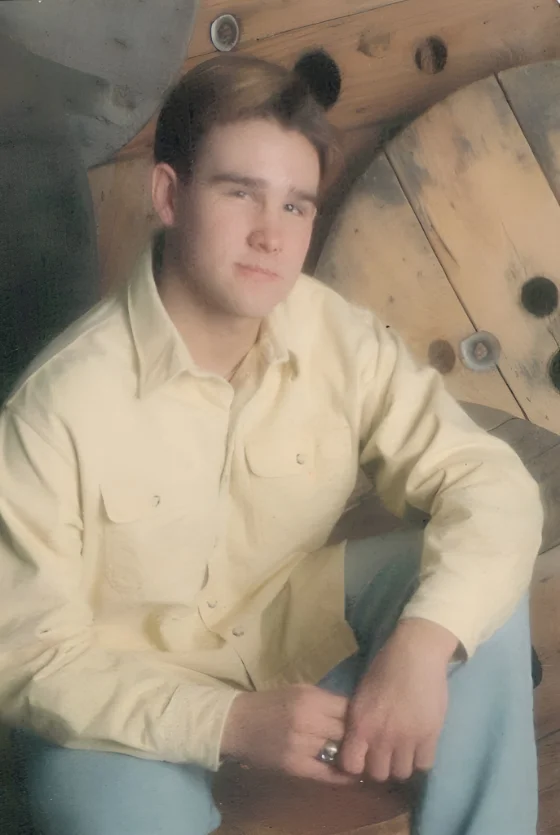
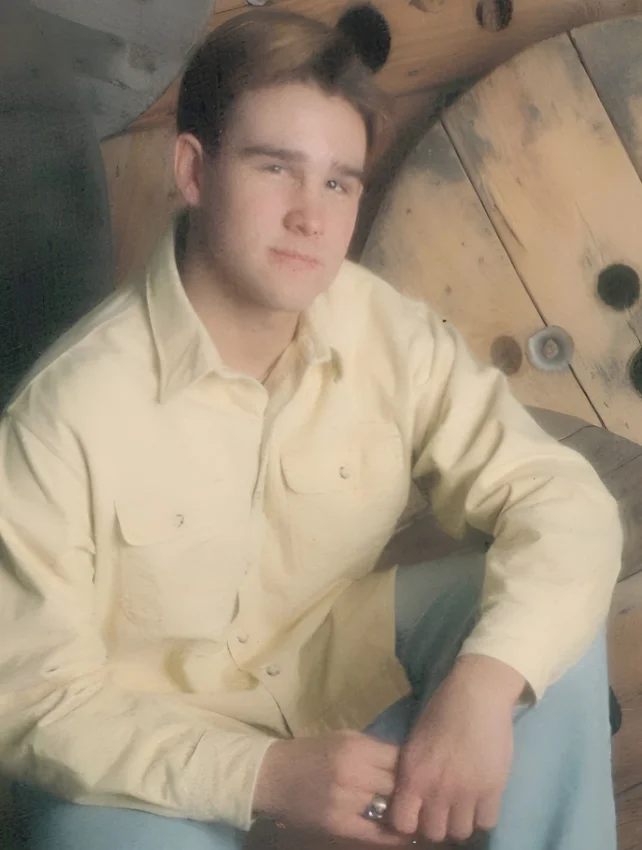
What: Portrait Rebuilt From Its Original. Why: The About portrait was a 560 by 835 copy, short of twice the 321px it now reaches on phones, and the user added its 1,374 by 2,048 original. How: The portrait box becomes twice the phone frame, 642 by 850, cut to that shape at its center the way the fra

diff --git a/src/pages/about/about.tsx b/src/pages/about/about.tsx
@@ -286,9 +286,9 @@ function AboPagCom () : JSX.Element {
 							<img
 								className={ cssModObj.porPhoIma }
 
-								height='835' // What: Intrinsic Height. Why: The browser reserves the portrait's shape before it loads, so nothing moves. How: This is the encoded portrait's height in pixels.
+								height='850' // What: Intrinsic Height. Why: The browser reserves the portrait's shape before it loads, so nothing moves. How: This is the encoded portrait's height in pixels.
 								src={ selPorUrl }
-								width='560' // What: Intrinsic Width. Why: The browser reserves the portrait's shape before it loads, so nothing moves. How: This is the encoded portrait's width in pixels.
+								width='642' // What: Intrinsic Width. Why: The browser reserves the portrait's shape before it loads, so nothing moves. How: This is the encoded portrait's width in pixels.
 
 								alt='Portrait of z4nta0'
 							/>{ /* What: Portrait Photo Image Element. Why: A visitor sees who they'd be working with. How: This shows the portrait inside the frame. */ }
